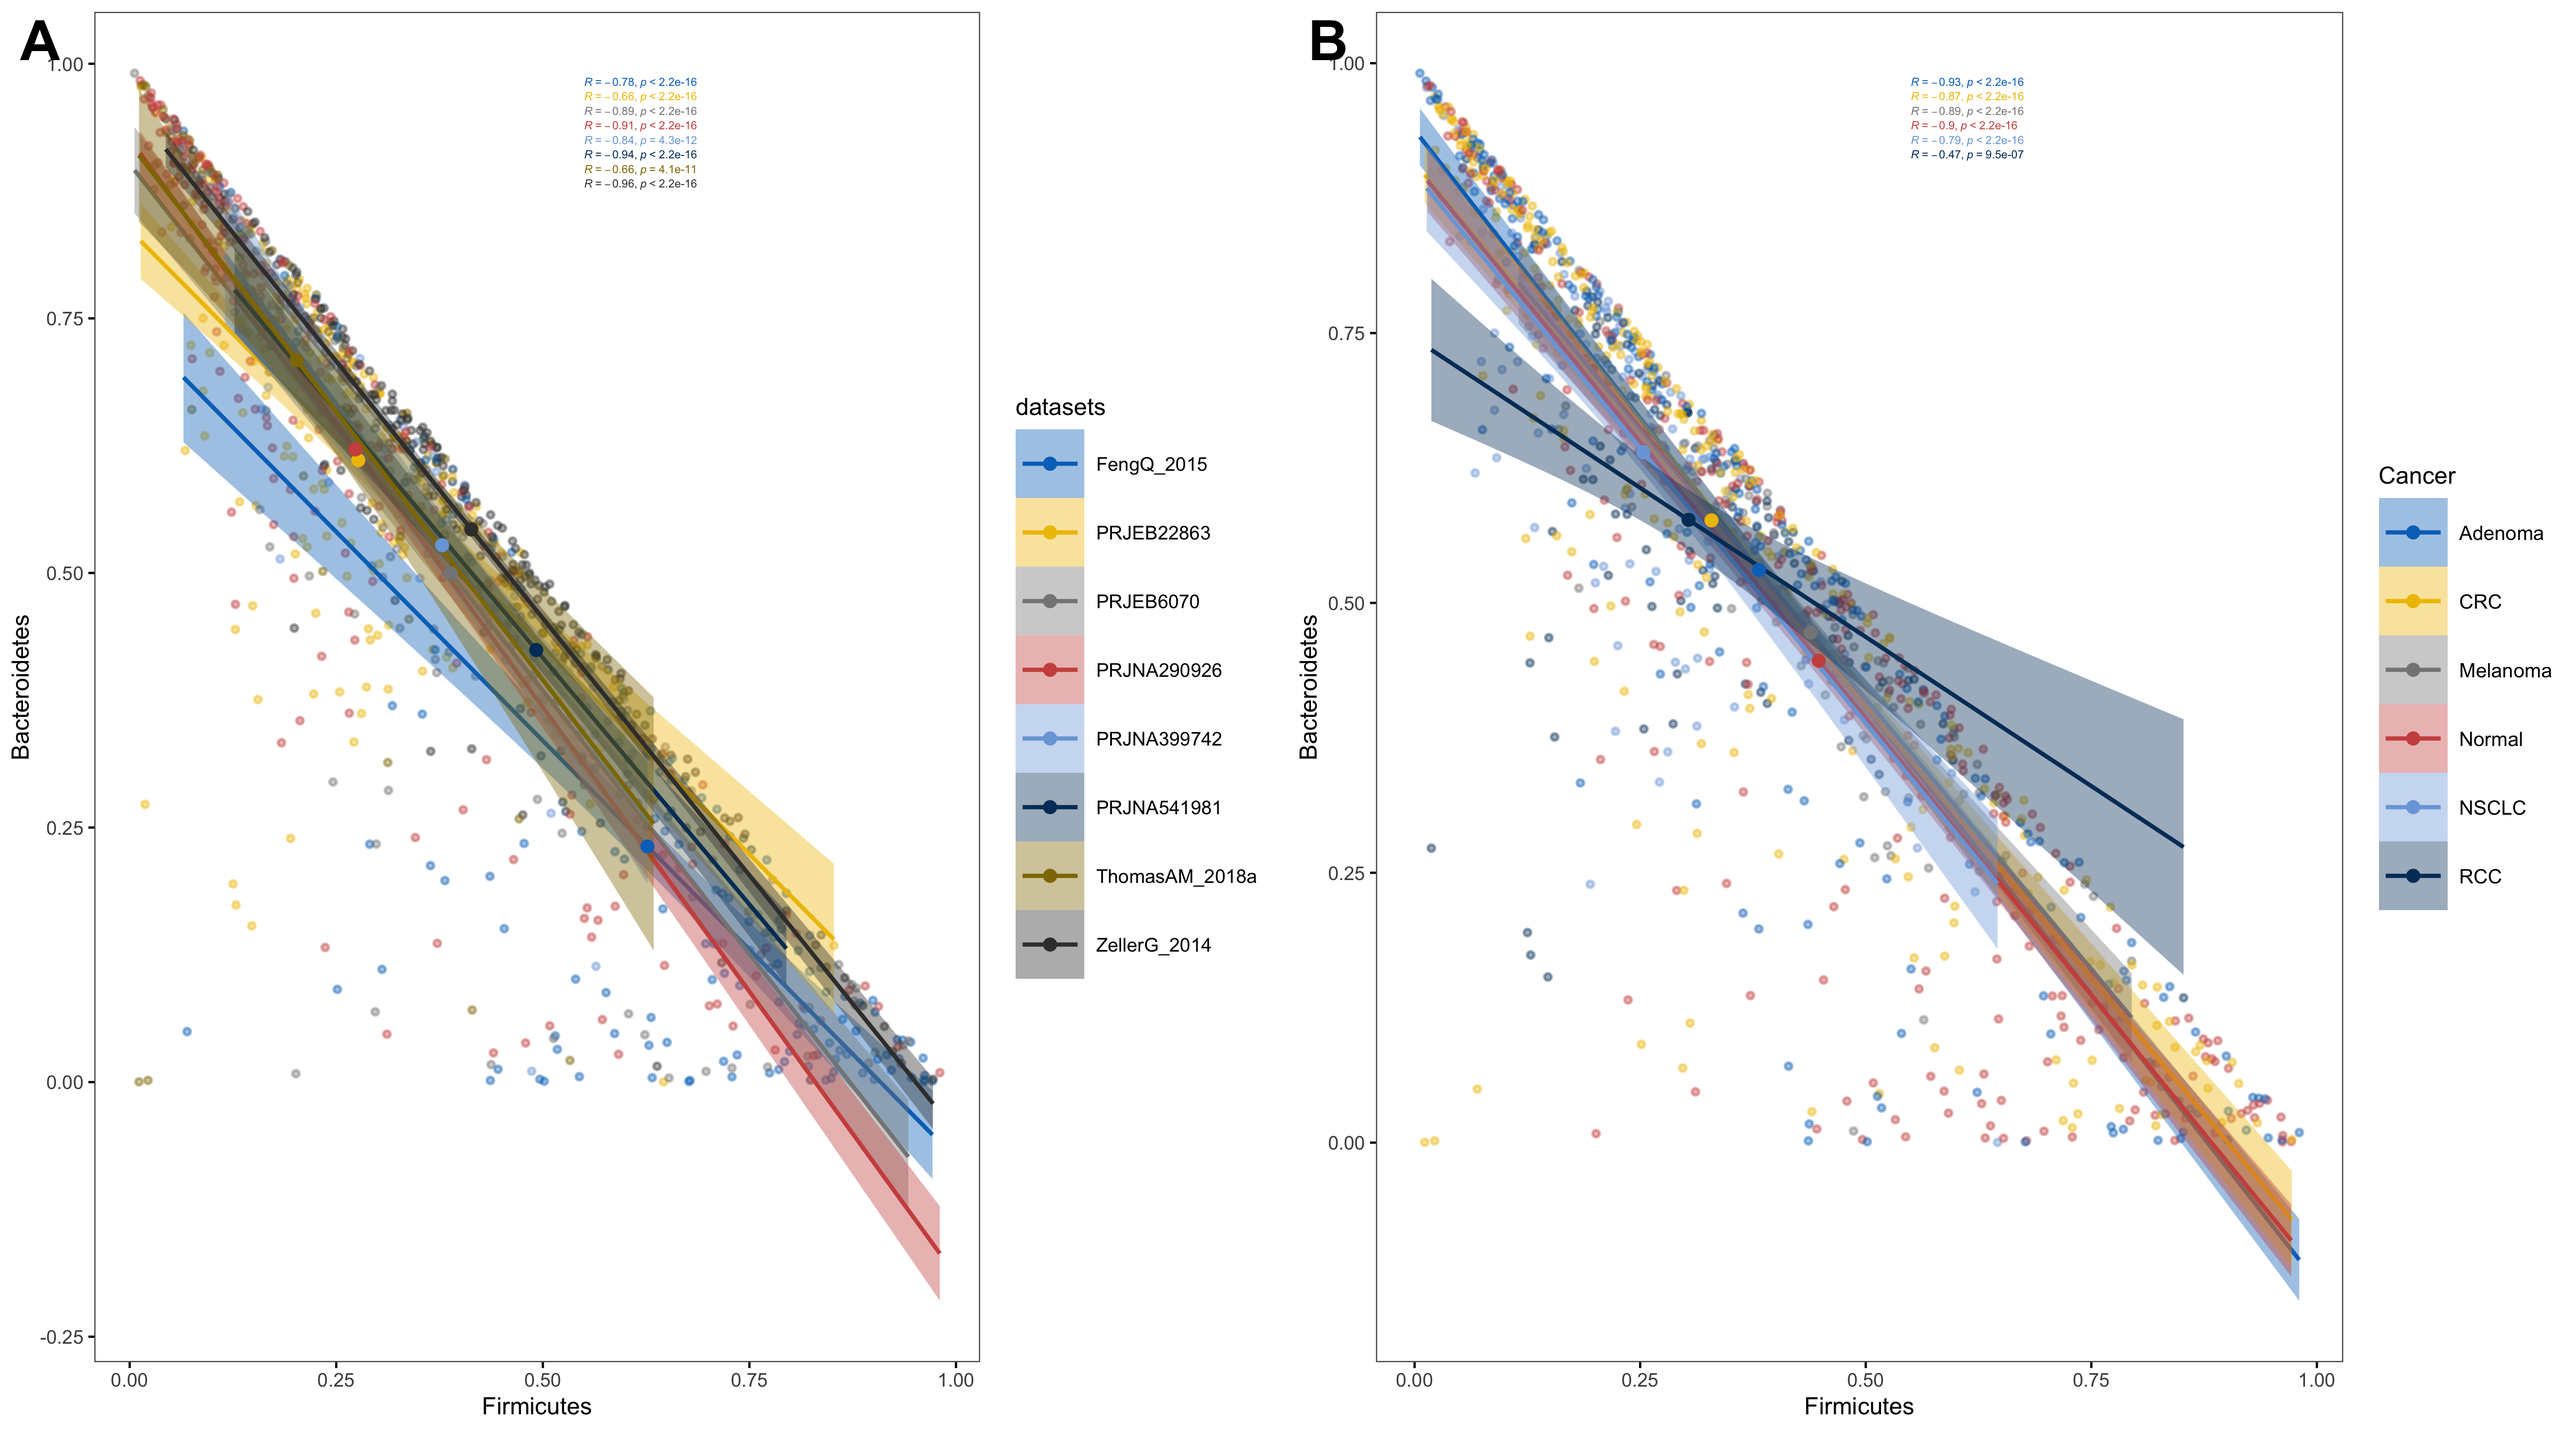
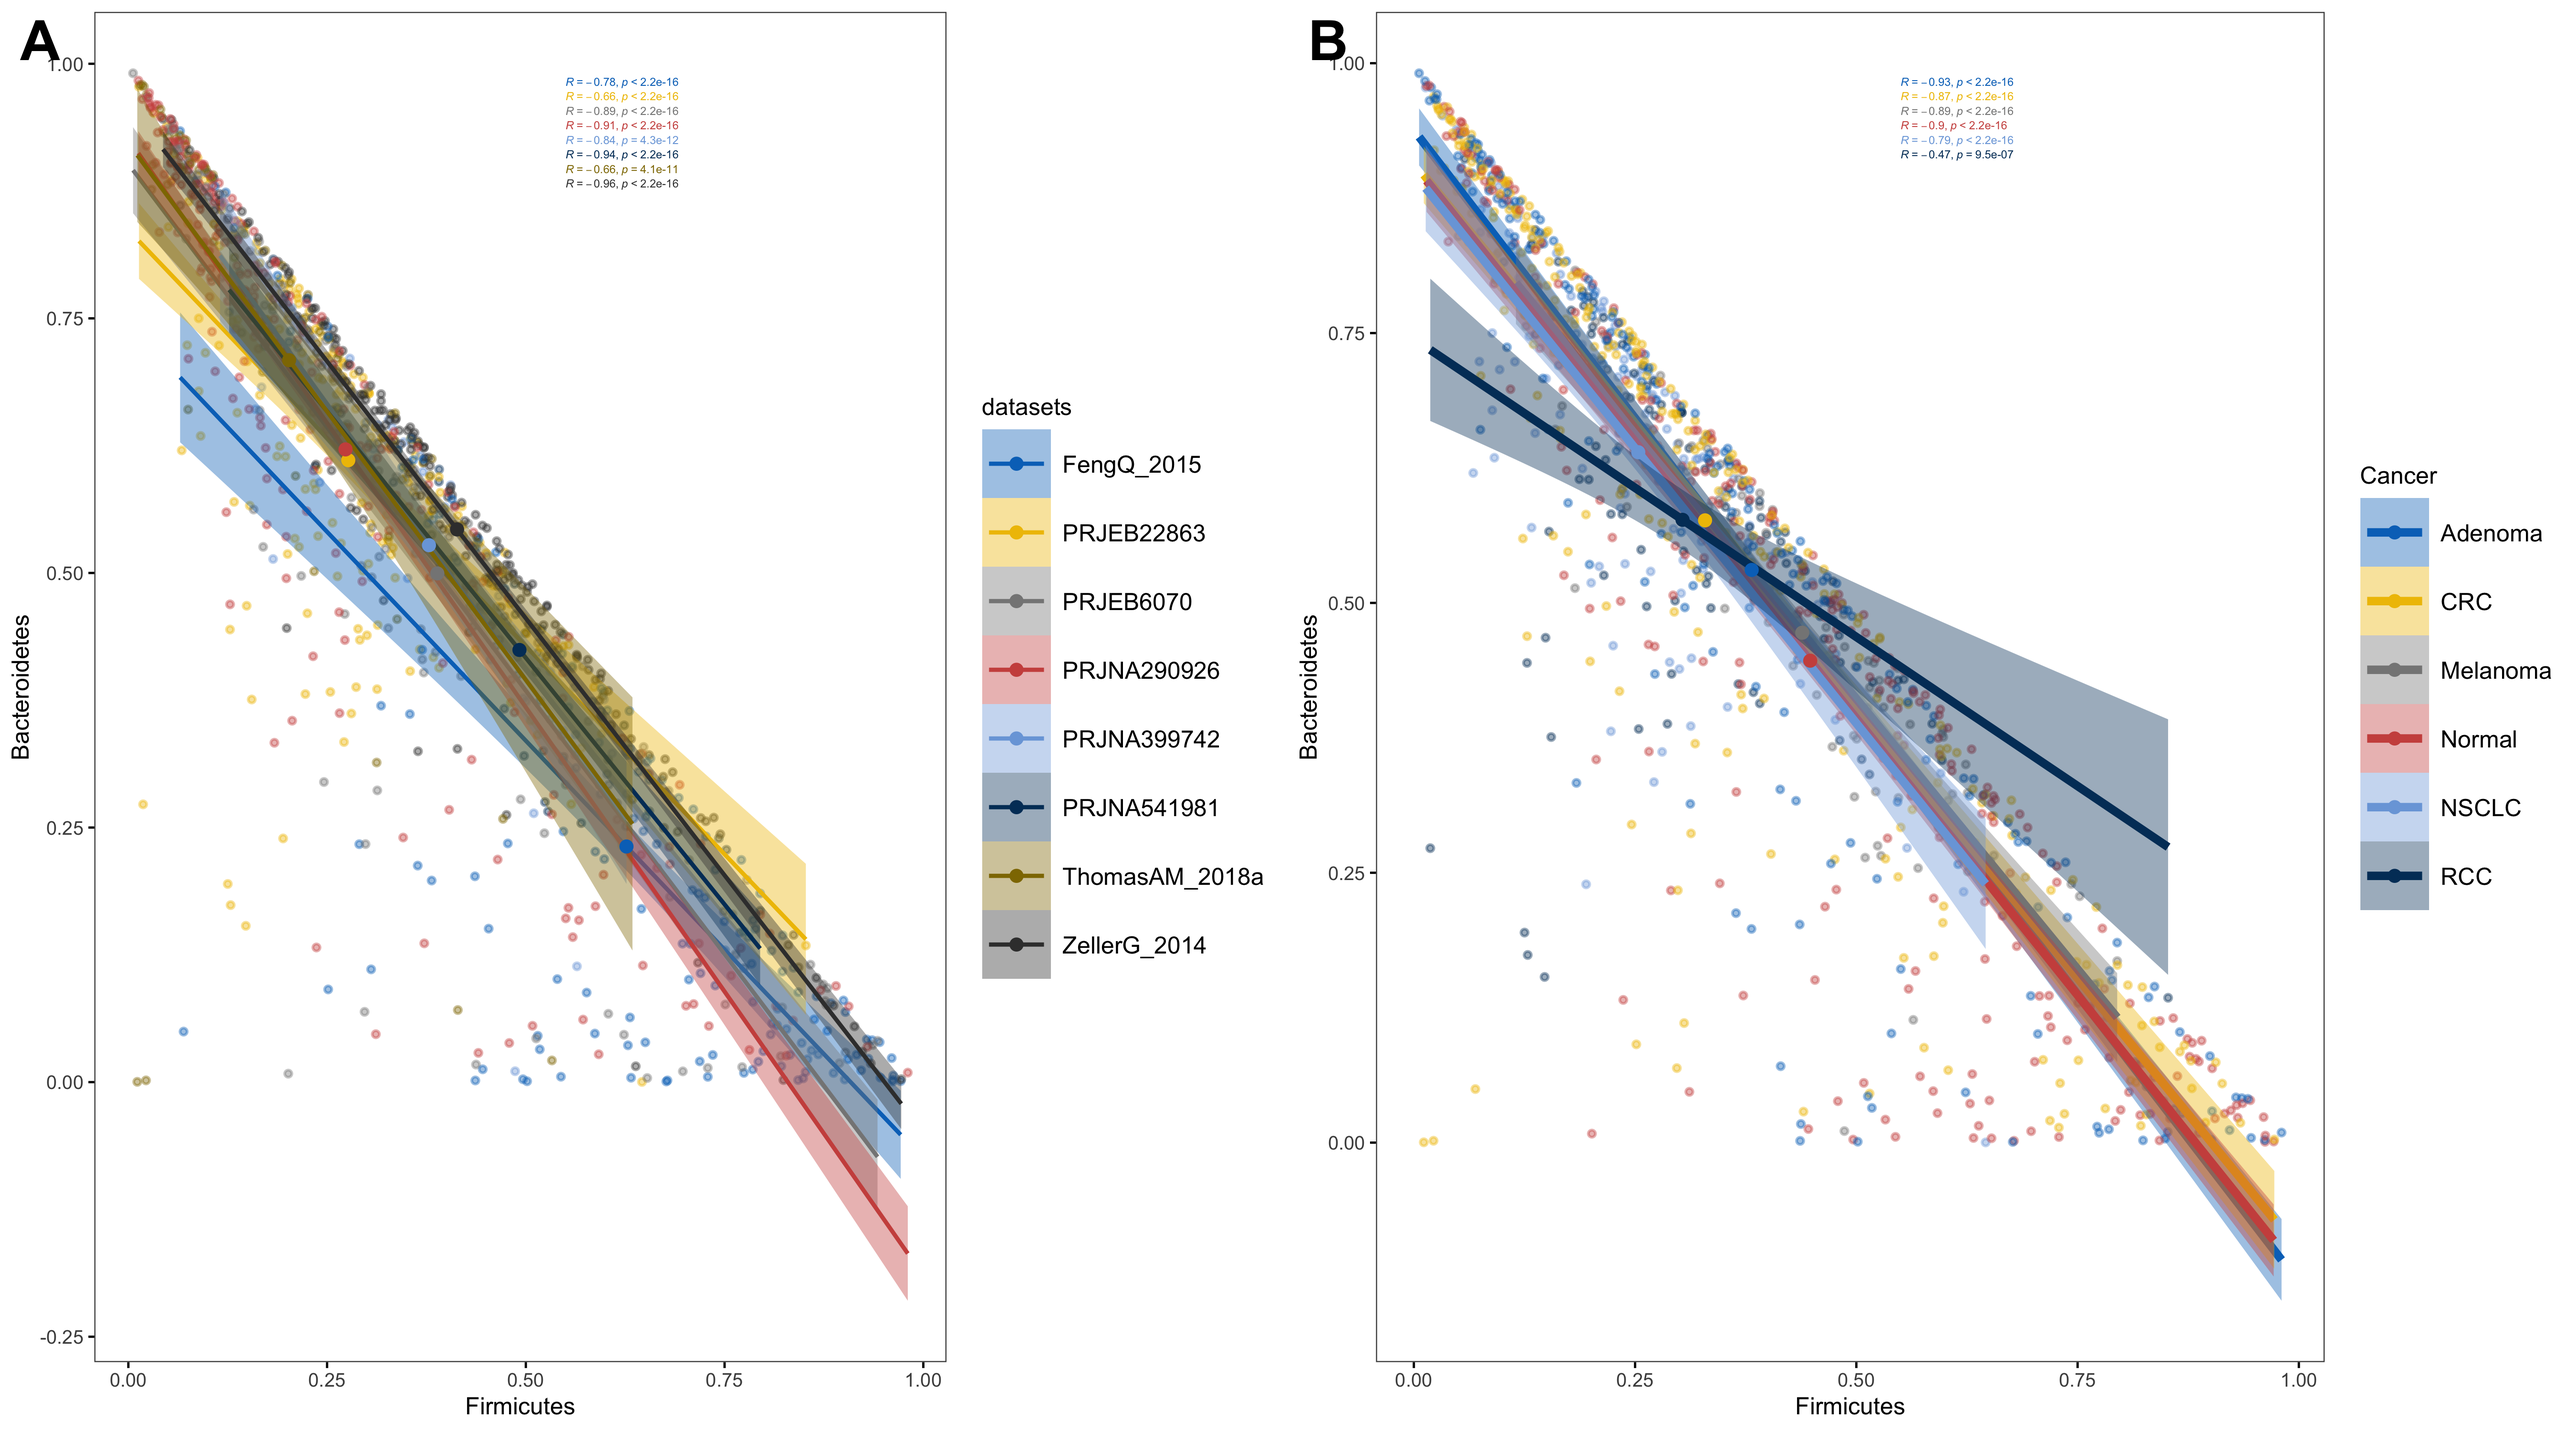
correlate the BMI and irAEs analysis publicdatasets

diff --git a/Analysis Ducoments/BMI_and_irAEs.md b/Analysis Ducoments/BMI_and_irAEs.md
@@ -184,15 +184,16 @@
               y = "Bacteroidetes",size=0.5,alpha=0.4,color="datasets",cor.method = "spearman",mean.point = T,
               palette = "jco",add.params = list(alpha=0.5,size=0.5), ggtheme = theme_few(base_size = 6),
               add = "reg.line", conf.int = TRUE)+
-      stat_cor(aes(color=datasets),label.x = 0.55,size=1)
+      stat_cor(aes(color=datasets),label.x = 0.55,size=1)+
+      theme(legend.text = element_text(size=6))
 
     p2<-ggscatter(data, x = "Firmicutes", mean.point = T,cor.method = "spearman",
               ggtheme = theme_few(base_size = 6),
               y = "Bacteroidetes",size=0.5,alpha=0.4,color="Cancer",
-              palette = "jco",add.params = list(alpha=0.5,size=0.5),
+              palette = "jco",add.params = list(alpha=0.5,size=1),
               add = "reg.line", conf.int = TRUE)+
       stat_cor(aes(color=Cancer),label.x = 0.55,size=1)+
-      theme(legend.text = element_text(size=5))
+      theme(legend.text = element_text(size=6))
 
     plot_grid(p1,p2,labels = c("A","B"), ncol =2, nrow = 1)
 
